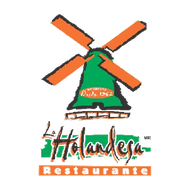
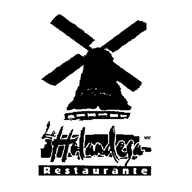
Versión 30.6.8: ícono del comandero en negro sobre blanco
Claude-Session: https://claude.ai/code/session_01QiXp5pKvjoUfmzL1EtQSHV

Changed region(s): [[0.1875, 0.0625, 0.8125, 0.9375]]

diff --git a/comandero.html b/comandero.html
@@ -2,7 +2,7 @@
 <title>La Holandesa Comandero</title>
 <link rel="manifest" href="/manifest-comandero.webmanifest">
 <link rel="apple-touch-icon" href="/icono_comandero_180.png">
[2 lines of base64/hex data omitted]
 <meta name="apple-mobile-web-app-title" content="Holandesa Comandero">
 <meta name="application-name" content="Holandesa Comandero">
 <meta name="apple-mobile-web-app-capable" content="yes">

diff --git a/holandesa_monitor.py b/holandesa_monitor.py
@@ -14,8 +14,8 @@ import os, re, sys, json, gzip, glob, time, base64, struct, hashlib, secrets, th
 from http.server import ThreadingHTTPServer, BaseHTTPRequestHandler
 
 AQUI = os.path.dirname(os.path.abspath(__file__))
-VERSION = 81            # número interno que compara la actualización automática (siempre entero, sube de 1 en 1)
-VERSION_TXT = '30.6.7'    # versión que se muestra: 24.1, 24.2… y 25.0 cuando hay un cambio grande
+VERSION = 82            # número interno que compara la actualización automática (siempre entero, sube de 1 en 1)
+VERSION_TXT = '30.6.8'    # versión que se muestra: 24.1, 24.2… y 25.0 cuando hay un cambio grande
 REPO_RAW = 'https://raw.githubusercontent.com/Jorge-1639/monitor-holandesa/main/'
 CONFIG_FILE = os.path.join(AQUI, 'config.json')
 LOG_FILE = os.path.join(AQUI, 'monitor.log')

diff --git a/README.md b/README.md
@@ -138,3 +138,5 @@ Versión 30.6.6 — el ícono del panel de ventas también es el logo sobre fond
 Versión 30.6.7 — cada app tiene su propio alcance (scope) para que no se "traguen" entre sí en el teléfono: panel en /panel (también sigue en /),
 comandero /comandero, personal /personal, descansos /descansos, compras /captura. Antes el panel instalado (alcance "/") abarcaba al comandero
 y Chrome no dejaba instalarlo aparte (salía "Crear acceso directo" con una letra).
+
+Versión 30.6.8 — íconos: Control Holandesa con el logo a todo color sobre blanco; Holandesa Comandero con el logo todo en negro sobre blanco.
